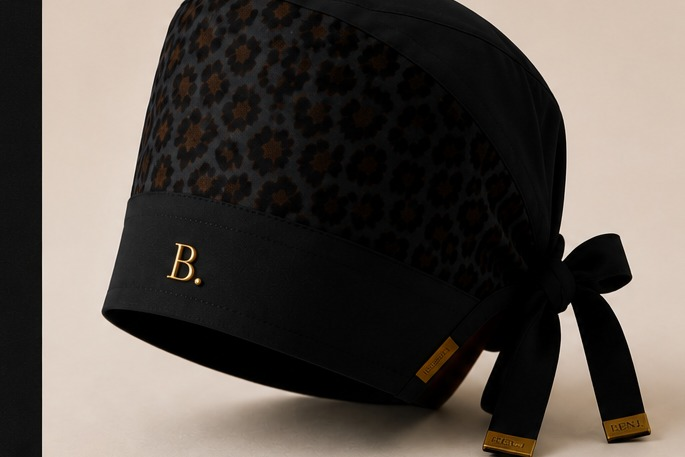
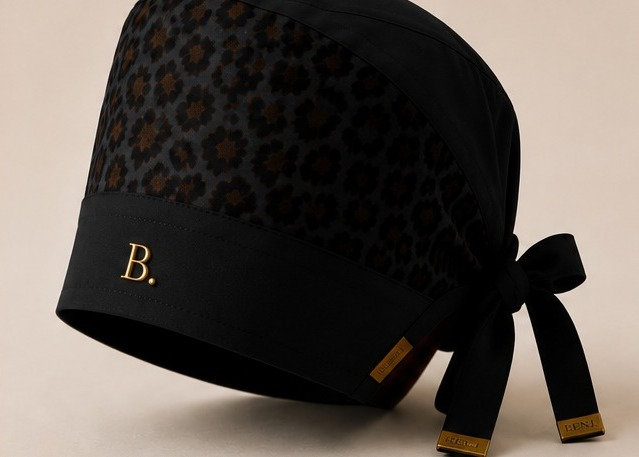
Corrige le recadrage de plusieurs images (bord défectueux)
- nuit-g1.jpg / olive-g1.jpg : recadrage de la bande noire d'origine
  sur le bord gauche (hero + fiche produit)
- front.jpg, back.jpg, fabric.jpg, lining.jpg : recadrage d'un fin
  liseré clair présent sur un bord (gauche ou haut selon l'image)
- main.js : réattribution des formats du Lookbook selon le vrai
  ratio de chaque photo (bow.jpg → large, top.jpg et lining.jpg →
  carré) — top.jpg était forcée dans un format large qui coupait
  le dessus du calot

Claude-Session: https://claude.ai/code/session_01S4NMcPE1QXuKU6ReK3KrQL

diff --git a/assets/js/main.js b/assets/js/main.js
@@ -11,9 +11,9 @@
   var LOOKBOOK = [
     { src:"front.jpg", alt:"Sahara Sable, face",               cls:"big" },
     { src:"back.jpg",  alt:"Sahara Sable, dos et nœud",        cls:"tall" },
-    { src:"top.jpg",   alt:"Sahara Sable, dessus",             cls:"wide" },
-    { src:"lining.jpg",alt:"Doublure intérieure",              cls:"wide" },
-    { src:"bow.jpg",   alt:"Nœud du lien ajustable",           cls:"" }
+    { src:"bow.jpg",   alt:"Nœud du lien ajustable",           cls:"wide" },
+    { src:"top.jpg",   alt:"Sahara Sable, dessus",             cls:"" },
+    { src:"lining.jpg",alt:"Doublure intérieure",              cls:"" }
   ];
 
   // Grille savoir-faire : gros plans commentés de la confection
